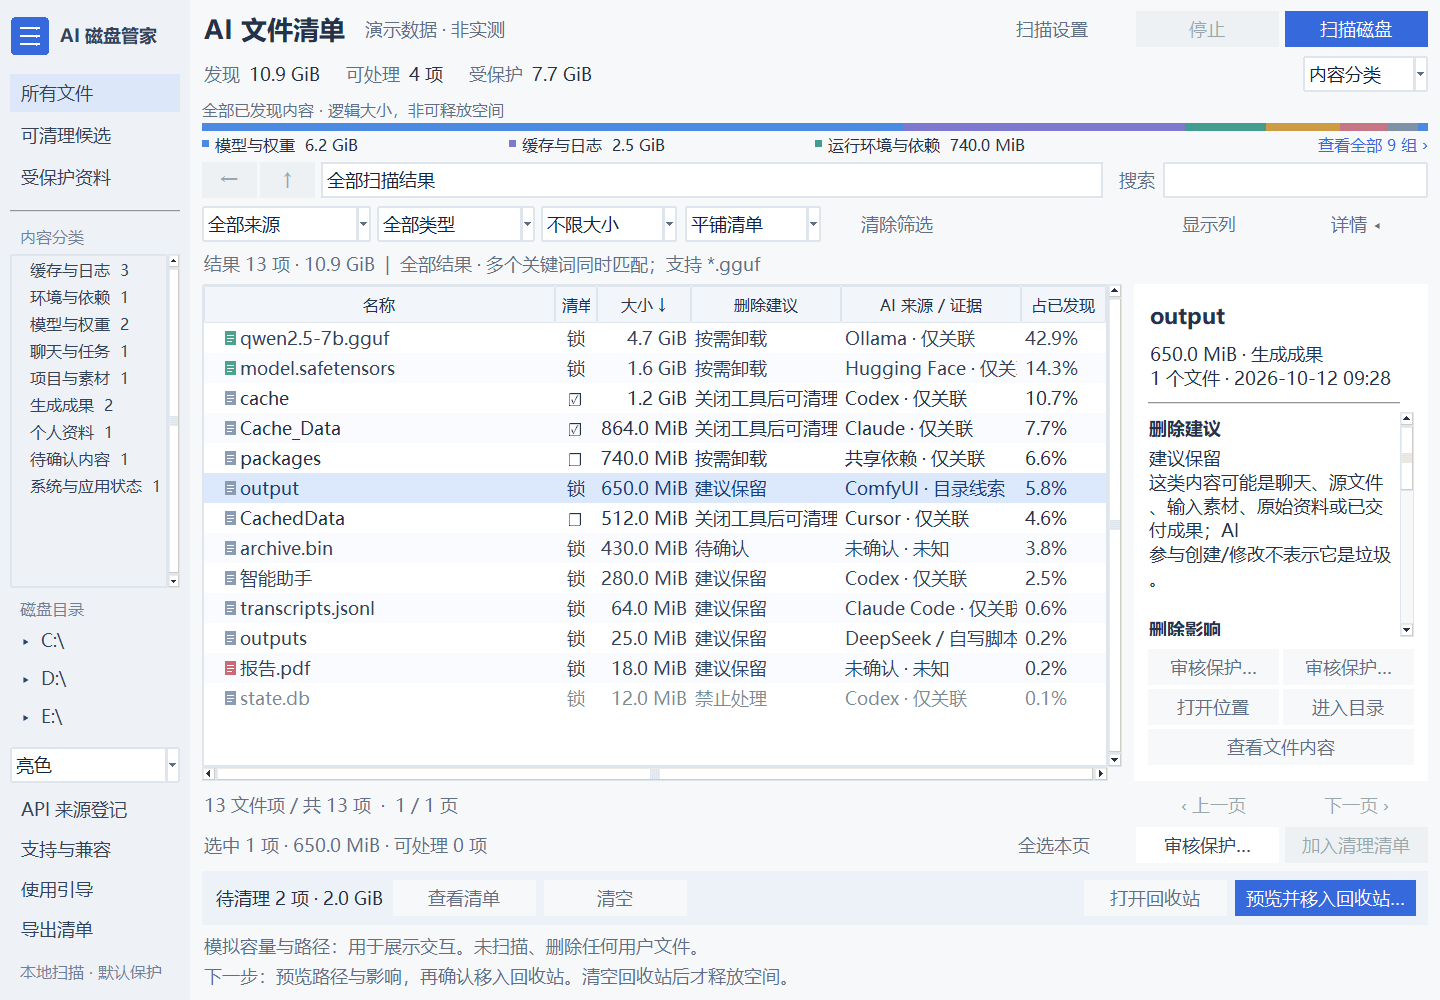
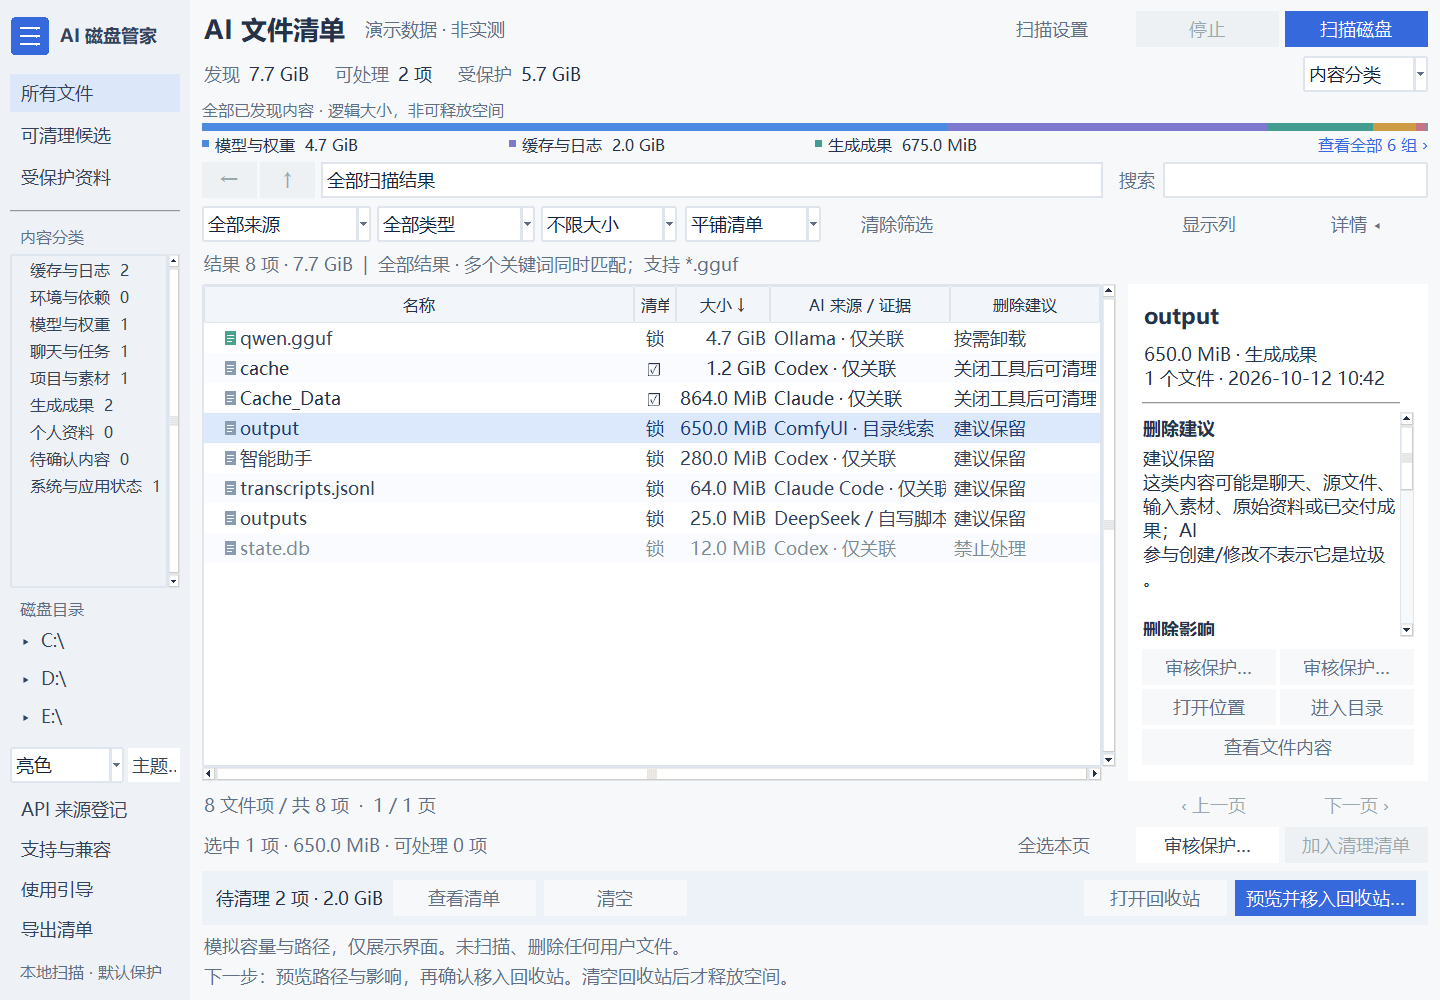
Release 1.6.0 with Doro and theme gallery

diff --git a/docs/validation.md b/docs/validation.md
@@ -1,19 +1,24 @@
-# 1.5.0 验证摘要
+# 1.6.0 验证摘要
 
-测试仅在开发电脑上进行。下面是已完成的检查，不代表兼容所有电脑、所有显示缩放或所有 AI 工具版本。
+仅在当前开发电脑验证，不代表所有电脑、显示缩放或 AI 工具版本均兼容。
 
 | 范围 | 本轮结果 |
 | --- | --- |
-| 回归 | 138 项，137 通过，1 因本机符号链接创建权限跳过，无失败 |
-| 交互 | 实际 Tk 事件检查 Ctrl/Shift、空格、多选保持、跨页清单、来源/容量筛选、目录保持、空状态、列配置 |
-| 保护 | 普通行浏览不批准，勾选列才批准；永久保护排除；选中受保护项直接进入审核 |
-| 预览 | 表格选择能显示对应完整路径与影响，最终确认默认关闭；取消保留所有项 |
-| 原生回收 | 只将两个自建微小缓存目录（17 + 34 字节）移入 Windows 回收站；其他测试文件保留 |
-| 独立 EXE | 仅 EXE 初始目录，中文含空格路径；独立启动验证 1760×1180、1280×900、1060×720 × 亮暗两种主题 |
-| API 样例 | 两个自建小文件共 43 字节，人工登记且默认保护；无需另装 Python |
-| 本机兼容检查 | 独立 EXE 成功生成本机检查与 17 类规则生态清单，不执行删除 |
-| 数据保持 | 原用户扫描报告、界面设置、来源登记指纹不变，零 Tk 回调异常 |
+| 回归 | 139 项，138 通过，1 因符号链接权限跳过，无失败 |
+| 配色 | 全部 9 个选项的正文、次要文字、选中行、输入框、侧栏和主要按钮正常态及悬停态文字对比度检查达到 4.5:1 |
+| 主题交互 | 真实 Tk 预览图点击、主题按钮、下拉框与键盘空格切换；设置重新读取正确 |
+| 选择与保护 | 勾选清单、选中行、显示列与保护状态保持；没有解除保护或执行删除 |
+| 主题画廊 | 9 个选项完整可见，完成按钮可见且正常关闭；两种 Doro 预览均显示插画 |
+| Doro 插画 | PNG 透明通道保留；内置资源在源码与独立 EXE 中加载并显示 |
+| 独立 EXE | 9 个主题选项分别独立启动 1280×900；Doro 两版再覆盖 1060×720、1760×1180 |
+| 便携与空列表 | 仅 EXE 初始目录、中文含空格路径；Doro 两版在 1060×720 展示空列表引导 |
+| 便携主题画廊 | 两种 Doro 模式分别打开独立 EXE 的真实画廊，所有主题按钮和完成按钮可见 |
+| API 样例 | 仅扫描两个自建小文件共 43 字节，显示人工登记且默认保护 |
+| 本机检查 | 独立 EXE 生成本机兼容报告与 17 类规则生态列表 |
+| 原用户数据 | 主目录新版启动可读取已有快照；扫描报告、设置和来源登记哈希均保持 |
 
-列菜单检查使用真实变量和命令，但模拟原生菜单弹出；打开回收站只校验调用，不自动操作系统回收站界面。窗口尺寸验证分别独立启动 EXE，避免测试脚本的原生菜单焦点、最小化状态影响截图。
+产品演示图的路径与容量为模拟数据，未扫描用户文件。主题源码交互验收无 Tk 回调异常。
 
-产品演示图的容量和路径为模拟数据。51 字节回收测试不代表实际释放大量空间；程序没有完整树图、MFT 加速、模型去重或内置恢复管理。没有竞品性能实测、误删率统计、独立安全审计或“100% 安全”保证。
+本轮改动集中于外观和主题入口，没有重复执行真实删除。1.5 的两个自建微小缓存目录（17 + 34 字节）原生回收站测试属于此前的后端基线，不是本轮新增清理实测。聊天、项目、模型、生成或修改成果、未知来源仍默认保护；永久保护规则与删除核验后端保持。
+
+没有竞品性能实测、误删率统计、独立安全审计或所有电脑兼容保证。没有完整树图、MFT 加速、模型去重、内置恢复管理或在线主题下载。

diff --git a/README.md b/README.md
@@ -10,7 +10,7 @@
 
 ## 下载与开始
 
-1. 打开 [Releases](https://github.com/scarlimith/ai-disk-manager/releases/latest)，下载 `AI-Disk-Manager-1.5.0-Windows-x64.zip`。压缩包包含程序、中文说明、来源登记示例和第三方组件许可说明。
+1. 打开 [Releases](https://github.com/scarlimith/ai-disk-manager/releases/latest)，下载 `AI-Disk-Manager-1.6.0-Windows-x64.zip`。压缩包包含程序、中文说明、来源登记示例和第三方组件许可说明。
 2. 解压到自己可写的文件夹，双击 `AI磁盘管家.exe`，不需要另装 Python。
 3. 先查看引导。扫描默认选择有盘符的本地固定/可移动磁盘，也可以在扫描设置中指定目录。
 4. 按大小、来源和内容分类查看结果，阅读建议与影响；多选后加入清理清单，核对预览后再确认移入 Windows 回收站。
@@ -28,13 +28,25 @@
 | 删除建议、影响和保护原因 | 清理后是否需要重下载、重建环境，是否涉及成果或聊天 |
 | 大小筛选、多关键词/通配符、目录浏览、可配置列、内容预览 | 核对实际文件，再做选择 |
 | Ctrl/Shift 多选、跨页清理清单 | 集中检查多项内容并批量处理 |
-| 亮色、暗色、跟随系统、使用引导 | 按自己的习惯浏览和操作 |
+| 8 套外观、主题画廊、跟随系统、使用引导 | 按自己的习惯浏览和操作 |
 
 ![亮色主题，合成测试数据](assets/demo-light.png)
 
-*截图中的容量和路径全部为明确标记的模拟数据；10.9 GiB 仅展示分布，不是磁盘实测或实际释放容量。*
+*截图中的容量和路径全部为明确标记的模拟数据；容量数值仅展示分布，不是磁盘实测或实际释放容量。*
 
 ![暗色主题，合成测试数据](assets/demo-dark.png)
+
+### 1.6 主题画廊
+
+点击左下角 **主题…**，点选预览图或主题按钮即可应用并保存。已有勾选清单、选中行、显示列和保护状态会保留。
+
+新增 **Doro 乐园、Doro 夜游、薄荷庭院、奶油拿铁、午夜蓝、紫藤夜色**；连同原有亮暗主题，共 8 套外观，另有跟随系统。Doro 两版含新生成的同人插画，素材内置，无需下载。
+
+![Doro 主题，容量和路径为模拟数据](assets/demo-doro.png)
+
+![主题画廊](assets/theme-gallery.png)
+
+[Doro 夜游](assets/demo-doro-dark.png) · [薄荷庭院](assets/demo-mint.png) · [奶油拿铁](assets/demo-cream.png) · [午夜蓝](assets/demo-midnight.png) · [紫藤夜色](assets/demo-violet.png)
 
 ### 1.5 操作改进
 
@@ -70,13 +82,13 @@
 
 ## 版本与反馈
 
-当前版本：**1.5.0**。EXE：16,911,006 字节（约 16.13 MiB）。SHA-256：
+当前版本：**1.6.0**。EXE：18,111,823 字节（约 17.27 MiB）。SHA-256：
 
 ```text
[2 lines of base64/hex data omitted]
 ```
 
-验证覆盖多选、保护审核、跨页清单、原生回收站批量处理及独立 EXE 启动。138 项回归检查中 137 通过、1 因符号链接创建权限跳过，无失败；测试只处理自行创建的微小沙盒内容。[查看具体范围与限制](docs/validation.md)。
+验证覆盖多选、保护审核、跨页清单、原生回收站批量处理及独立 EXE 启动。139 项回归检查中 138 通过、1 因符号链接创建权限跳过，无失败；测试只处理自行创建的微小沙盒内容。[查看具体范围与限制](docs/validation.md)。
 
 欢迎在 [Issues](https://github.com/scarlimith/ai-disk-manager/issues) 描述系统版本、程序版本、复现步骤与已隐藏私人信息的截图。此工具为独立项目，与所列 AI 产品没有官方关联或背书。
 

diff --git a/docs/support.md b/docs/support.md
@@ -1,6 +1,6 @@
 # 支持范围与限制
 
-版本：1.4.0。目标平台：Windows 10 / Windows 11 x64。只在当前开发电脑完成实测；其他机器、ARM、32 位 Windows、macOS 和 Linux 没有发行兼容性验证。
+版本：1.6.0。目标平台：Windows 10 / Windows 11 x64。只在当前开发电脑完成实测；其他机器、ARM、32 位 Windows、macOS 和 Linux 没有发行兼容性验证。
 
 ## 已实现的规则生态
 

diff --git a/NOTICE.md b/NOTICE.md
@@ -8,3 +8,7 @@
 
 产品名称、商标和对应工具的说明仅用于识别支持规则，不表示与 OpenAI、Anthropic、GitHub、其他 AI 厂商存在合作、认证或背书。
 
+
+## Doro 同人主题
+
+Doro 两套主题使用新生成的同人插画，不是官方立绘或官方联名。相关角色权益属于其权利方；本项目没有官方关联或背书。素材随程序内置，正常使用不访问图片生成服务。
